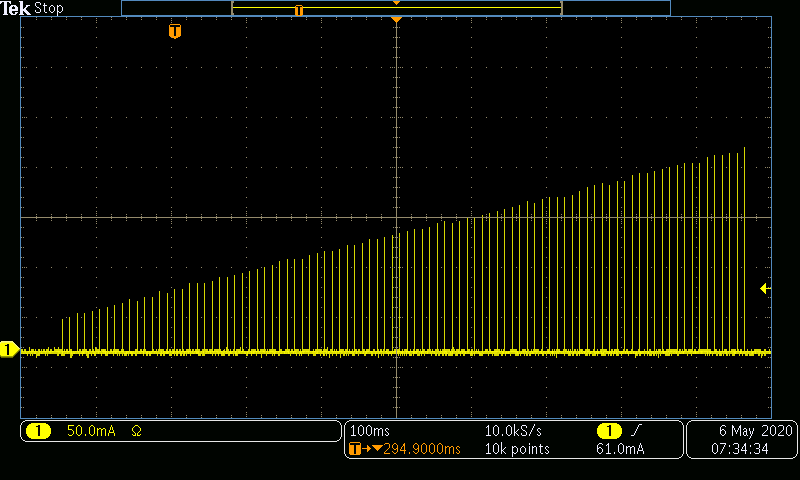
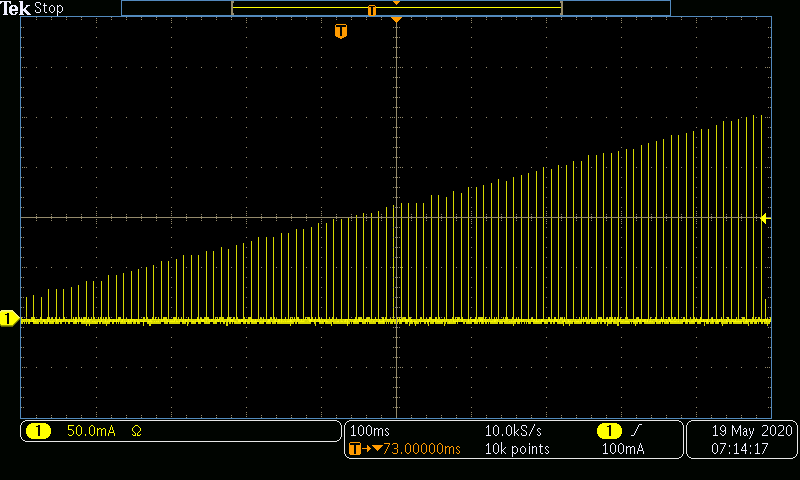
Updated Pulsed Sweep settings and screenshots
Changed compensation settings to High/Fast

diff --git a/run_spikesafe_operating_modes/run_pulsed_sweep/RunBiasPulsedSweepMode.py b/run_spikesafe_operating_modes/run_pulsed_sweep/RunBiasPulsedSweepMode.py
@@ -41,17 +41,17 @@ try:
     # set Channel 1's Bias Current to 10mA
     tcp_socket.send_scpi_command('SOUR1:CURR:BIAS 0.01')   
 
-    # set Channel 1's voltage to 10 V 
-    tcp_socket.send_scpi_command('SOUR1:VOLT 10')   
+    # set Channel 1's voltage to 20 V 
+    tcp_socket.send_scpi_command('SOUR1:VOLT 20')   
 
     # set Channel 1's pulse settings for a 1% duty cycle and 1ms Period using the Pulse On Time and Pulse Off Time commands
     tcp_socket.send_scpi_command('SOUR1:PULS:TON 0.0001')
     tcp_socket.send_scpi_command('SOUR1:PULS:TOFF 0.0099')
 
-    # set Channel 1's compensation settings to their default values
+    # set Channel 1's compensation settings to High/Fast
     # For higher power loads or shorter pulses, these settings may have to be adjusted to obtain ideal pulse shape
-    tcp_socket.send_scpi_command('SOUR1:PULS:CCOM 4')
-    tcp_socket.send_scpi_command('SOUR1:PULS:RCOM 4')   
+    tcp_socket.send_scpi_command('SOUR1:PULS:CCOM 1')
+    tcp_socket.send_scpi_command('SOUR1:PULS:RCOM 1')   
 
     # Check for any errors with initializing commands
     log_all_events(tcp_socket)

diff --git a/run_spikesafe_operating_modes/run_pulsed_sweep/RunPulsedSweepMode.py b/run_spikesafe_operating_modes/run_pulsed_sweep/RunPulsedSweepMode.py
@@ -44,10 +44,10 @@ try:
     tcp_socket.send_scpi_command('SOUR1:PULS:TON 0.0001')
     tcp_socket.send_scpi_command('SOUR1:PULS:TOFF 0.0099')
 
-    # set Channel 1's compensation settings to their default values
+    # set Channel 1's compensation settings to High/Fast
     # For higher power loads or shorter pulses, these settings may have to be adjusted to obtain ideal pulse shape
-    tcp_socket.send_scpi_command('SOUR1:PULS:CCOM 4')
-    tcp_socket.send_scpi_command('SOUR1:PULS:RCOM 4')   
+    tcp_socket.send_scpi_command('SOUR1:PULS:CCOM 1')
+    tcp_socket.send_scpi_command('SOUR1:PULS:RCOM 1')   
 
     # Check for any errors with initializing commands
     log_all_events(tcp_socket)
